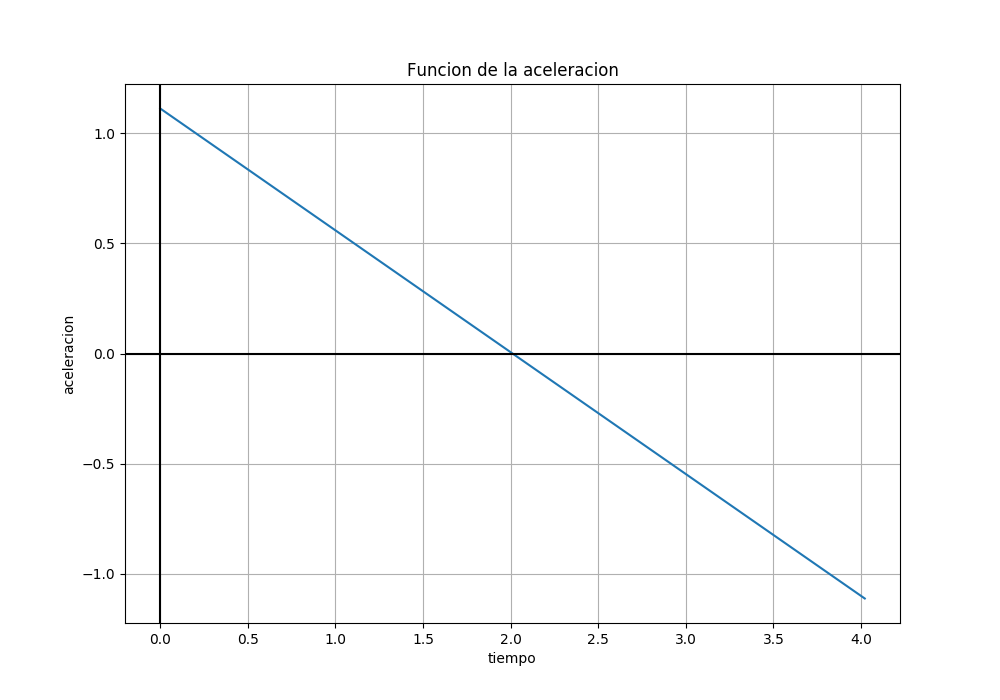
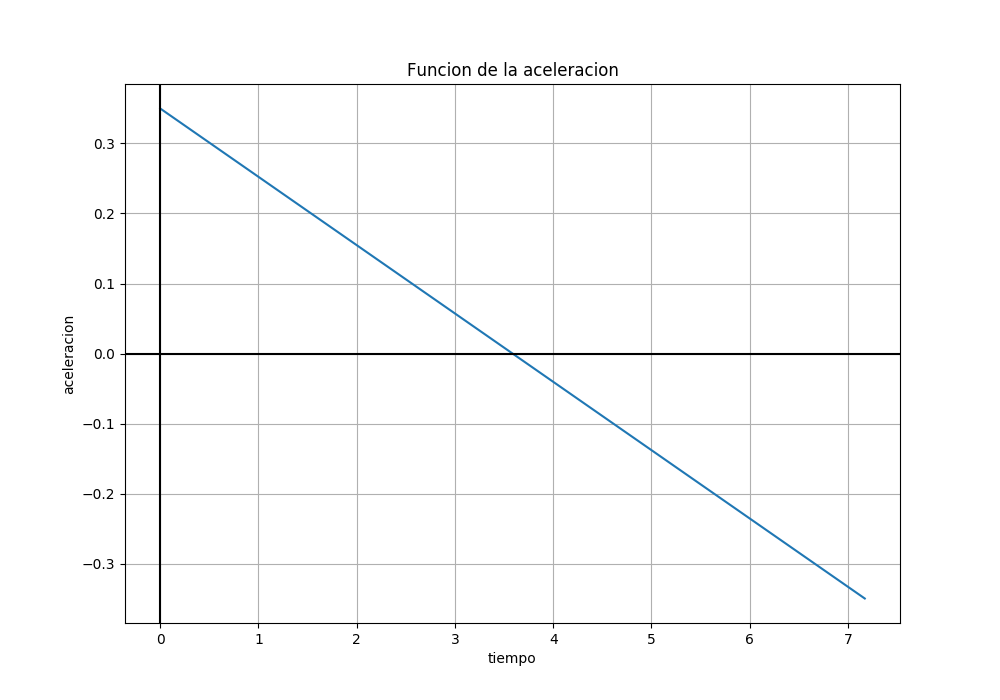
se emprolijo un poco las cosas

diff --git a/Tp1.py b/Tp1.py
@@ -15,13 +15,13 @@ import numpy as np #Manejo de arrays
 import matplotlib.pylab as plt #Rutinas gráficas
 
 ##Constantes
-fuerza = 640 #Fuerza medida en newtons
+fuerza = 280 #Fuerza medida en newtons
 
 masa_cabina = 350 #peso cabina
 
 masa_persona = 75 #peso prom personas
 
-numero_personas = 3 #a determinar
+numero_personas = 6 #a determinar
 
 masa = masa_cabina + masa_persona*numero_personas
 
@@ -32,8 +32,8 @@ acel_maxima = fuerza/masa #aceleracion maxima posible
 tiempo_final = math.sqrt(18*masa/fuerza)
 
 tiempoEn30Porciento = ( (fuerza / masa) - acel_maxima * 0.3 ) * (masa/fuerza) * (tiempo_final / 2)
-print('El tiempo en 30 porciento es:',tiempoEn30Porciento)
-print('tiempo final', tiempo_final)
+
+
 print('-------------------------------------')
 print('La fuerza que voy a usar es ', fuerza, '[N]')
 print('------------------- ------------------')
@@ -57,11 +57,8 @@ def aceleracion(t):
     a = ( (fuerza/masa) * (1  - ((t*2) / tiempo_final)))
     return a
 
-print( tiempoEn30Porciento)
-X0 = posicion(tiempoEn30Porciento)
 
-
-#intento de grafico de posicion
+#grafico de posicion
 
 x = np.linspace(0, tiempo_final )
 y = posicion(x)
@@ -75,9 +72,9 @@ plt.title('Funcion de la posicion')
 plt.grid(True)
 plt.savefig('Grafico Posicion')
 
-#intento de grafico de velocidad
+#grafico de velocidad
 
-x = np.linspace(0, tiempo_final ) #!!!!aca hay que cambiar el tiempofinal por otra cosa creo
+x = np.linspace(0, tiempo_final )
 y = velocidad(x)
 plt.figure(figsize = (10,7))
 plt.plot(x, y)
@@ -89,7 +86,7 @@ plt.title('Funcion de la velocidad')
 plt.grid(True)
 plt.savefig('Grafico Velocidad')
 
-#intento de grafico de aceleracion
+#grafico de aceleracion
 
 x = np.linspace(0, tiempo_final )
 y = aceleracion(x)
@@ -106,58 +103,64 @@ plt.savefig('Grafico Aceleracion')
 
 
 def f(x):
-    fa = posicion(x) - X0
+    fa = posicion(x) - posicion(tiempoEn30Porciento) #este es el X0
     df = velocidad(x)
     return fa, df
     
 TOL = 5E-16    # tolerancia
-MAXITER_B = 2  # biseccion   
-MAXITER_N = 60  # newthon
-a = 0
-b = tiempo_final
+MAXITER_B = 2  # maxima cantidad de iteraciones para biseccion
+MAXITER_N = 60  # maxima cantidad de iteraciones para newton
 
-formato_salida_N = '%03d %+.17E %+.3E %+.3E'#ver que es esto
-formato_salida_B = '%03d %+.17E %+.3E'
+def Biseccion(a,b):
+   formato_salida_B = '%03d %+.17E %+.3E'
+   fa = f(a)[0]
+   fb = f(b)[0]
+   print('-------------------------------------')
+   print("Método de bisección")
+   if abs(fa) < TOL:
+       xo = a
+       print(formato_salida_B % (0, xo, fa))
+   elif abs(fb) < TOL:
+        xo = b
+        print(formato_salida_B % (0, xo, fb))
+   elif fb * fa < 0:
+       k = 0
+       fin = False
+       while k < MAXITER_B and not fin:
+           xo = (a + b) / 2
+           f_val = f(xo)[0]
+           print(formato_salida_B % (k, xo, f_val))
+           k += 1
+           if abs(f_val) < TOL:
+               fin = True
+           elif f(a)[0] * f_val < 0:
+               b = xo
+           else:
+               a = xo
+   else:
+       print("El intervalo no contiene raíces")
+       xo = a
+   return xo
 
-fa = f(a)[0] 
-fb = f(b)[0]
-print("Método de bisección")
-if abs(fa) < TOL:
-    xo = a
-    print(formato_salida_B % (0, xo, fa))
-elif abs(fb) < TOL:
-    xo = b
-    print(formato_salida_B % (0, xo, fb))
-elif fb * fa < 0:
+
+
+
+def Newton():
+    xo = Biseccion(0,tiempo_final)
+    formato_salida_N = '%03d %+.17E %+.3E %+.3E'
+    print('-------------------------------------')
+    print("Método de Newton")
     k = 0
     fin = False
-    while k < MAXITER_B and not fin:
-        xo = (a + b) / 2
-        f_val = f(xo)[0]
-        print(formato_salida_B % (k, xo, f_val))
+    while k < MAXITER_N and not fin:
+        fo = f(xo)[0]
+        dfo = f(xo)[1]
+        xk = -fo / dfo + xo
+        e_u = (xo - xk) / xk
+        fin = abs(fo) < TOL and abs(e_u) < TOL
+        print(formato_salida_N % (k, xo, fo, e_u))
+        xo = xk
         k += 1
-        if abs(f_val) < TOL:
-            fin = True
-        elif f(a)[0] * f_val < 0:
-            b = xo
-        else:
-            a = xo
-else:
-    print("El intervalo no contiene raíces")
-    xo = a
+    return None
 
-print("Método de Newton")
-k = 0
-fin = False
-while k < MAXITER_N and not fin:
-    fo = f(xo)[0]
-    dfo = f(xo)[1]
-    xk = -fo / dfo + xo
-    e_u = (xo - xk) / xk
-    fin = abs(fo) < TOL and abs(e_u) < TOL
-    print(formato_salida_N % (k, xo, fo, e_u))
-    xo = xk
-    k += 1
-
-
-
+Newton()
